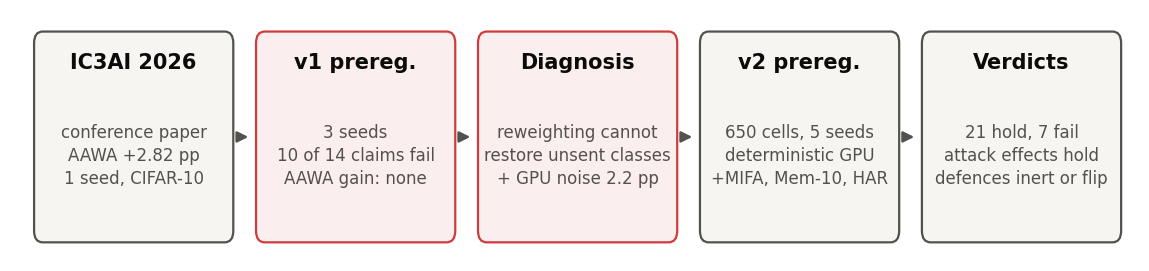
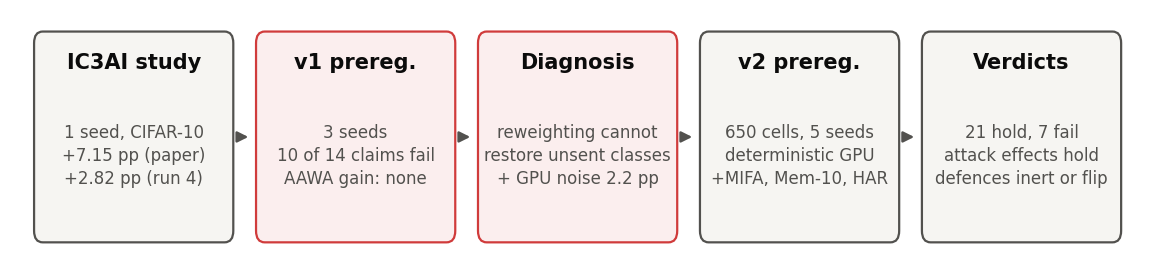
Correct the attribution of the 2.82-point AAWA result
2.82 pp under the combined schedule came from run 4 (100 rounds, one seed)
of the conference study and is not in the conference paper, which reports
30-round results (+7.15 pp under random dropout, +0.33 pp combined).
Relabel the lineage, replication and v1 gap figures and fix the README.

Changed region(s): [[0.0305, 0.4428, 0.1828, 0.679], [0.0609, 0.1771, 0.1828, 0.2657]]

diff --git a/plot_v2.py b/plot_v2.py
@@ -48,7 +48,7 @@ def save(fig, name):
 
 def fig01_lineage():
     """Flow diagram: how the study got here (conference claim -> failed pre-registration -> v2)."""
-    steps = [("IC3AI 2026", "conference paper\nAAWA +2.82 pp\n1 seed, CIFAR-10"),
+    steps = [("IC3AI study", "1 seed, CIFAR-10\n+7.15 pp (paper)\n+2.82 pp (run 4)"),
              ("v1 prereg.", "3 seeds\n10 of 14 claims fail\nAAWA gain: none"),
              ("Diagnosis", "reweighting cannot\nrestore unsent classes\n+ GPU noise 2.2 pp"),
              ("v2 prereg.", "650 cells, 5 seeds\ndeterministic GPU\n+MIFA, Mem-10, HAR"),
@@ -289,7 +289,7 @@ def fig10_class_box():
 
 def fig11_replication():
     """Replication funnel: the conference effect of AAWA shrinks to zero as rigour increases."""
-    rows = [("CIFAR-10", "IC3AI, 1 seed", 2.82, None, None),
+    rows = [("CIFAR-10", "IC3AI run 4, 1 seed", 2.82, None, None),
             ("CIFAR-10", "v1, 3 seeds", -0.56, -2.92, 1.80),
             ("CIFAR-10", "v2, 5 seeds", None, None, None),
             ("EMNIST", "v1, 3 seeds", -0.17, -1.01, 0.67),

diff --git a/plot.py b/plot.py
@@ -89,7 +89,7 @@ def seed_panel(a, xs, vals, labels, color, title, ylabel, refs=None, band=None):
     if refs:
         rx = [x for x, k in zip(xs, labels) if k in refs]
         a.scatter([x + 0.3 for x in rx], [refs[k] for k in labels if k in refs], marker="D", s=22,
-                  facecolor="white", edgecolor=INK, lw=1, zorder=5, label="IC3AI (1 run)")
+                  facecolor="white", edgecolor=INK, lw=1, zorder=5, label="IC3AI run 4 (1 seed)")
     a.set_xticks(xs, [ATK_LABEL[k] for k in labels])
     a.set_title(title, color=INK)
     a.set_ylabel(ylabel)

diff --git a/README.md b/README.md
@@ -23,7 +23,7 @@ Federated learning treats a client that fails to report as noise. An adversary c
 - **Reweighting the clients who remain is close to inert,** as predicted before the run.
 - **Server memory turns against the server.** Reusing absent clients' last updates (MIFA) helps under random silence on all five datasets, but under strategic silence its gain is negative in 9 of 10 settings. The reused updates are 16 to 33 rounds old instead of 1, because the adversary decides how long each client stays away.
 - **A short memory horizon keeps the benefit.** Capping memory at 10 rounds costs nothing under random silence and removes most of the loss under strategic silence. A small formal model of memory horizon against staleness explains when.
-- **An earlier result did not replicate.** The first pre-registration failed 10 of its 14 claims, including the single-seed gain reported for the AAWA aggregator. Both phases are reported in full.
+- **An earlier result did not replicate.** The first pre-registration failed 10 of its 14 claims, including the single-seed gains behind the AAWA aggregator's conference paper (7.15 points under random dropout at 30 rounds in the paper, 2.82 under the combined schedule in a 100-round run). Both phases are reported in full.
 
 <p align="center">
   <img src="figures/v2/fig06_gain_heatmap.png" width="88%" alt="Gain of each defence over FedAvg for every dataset and silence schedule">
